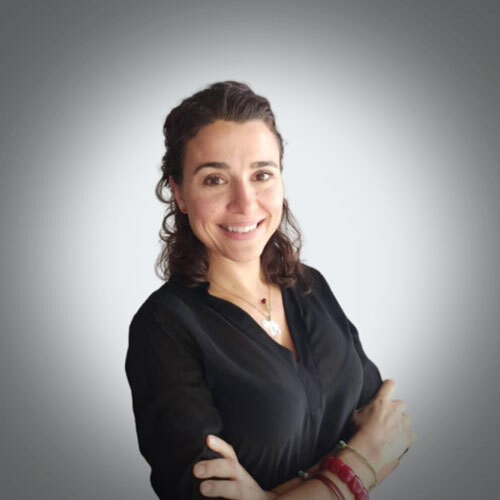
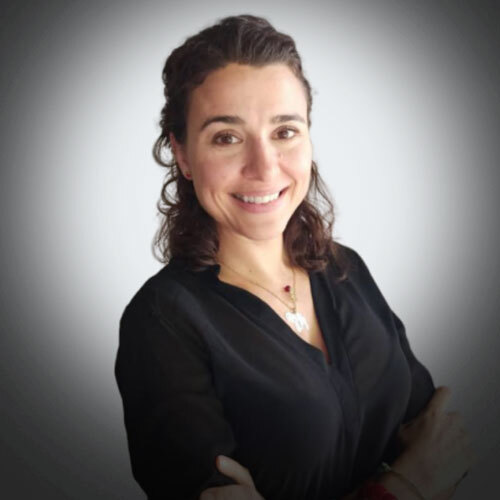
2 fotos cambiadas

diff --git a/2/index.html b/2/index.html
@@ -545,7 +545,7 @@
                 </div>
                 <div class="item">
                     <div class="iq-team grey-bg">
-                        <div class="iq-team-img"> <img src="images/lino-garcia.png" class="img-fluid center-block" alt="#"> </div>
+                        <div class="iq-team-img"> <img src="images/lino-garcia.jpg" class="img-fluid center-block" alt="#"> </div>
                         <div class="iq-team-info text-center">
                             <h5 class="iq-font-black iq-tw-6">Lino García</h5> <span class="team-post iq-tw-5">Coach</span> </div>
                     </div>

diff --git a/3/index.html b/3/index.html
@@ -545,7 +545,7 @@
                 </div>
                 <div class="item">
                     <div class="iq-team grey-bg">
-                        <div class="iq-team-img"> <img src="images/lino-garcia.png" class="img-fluid center-block" alt="#"> </div>
+                        <div class="iq-team-img"> <img src="images/lino-garcia.jpg" class="img-fluid center-block" alt="#"> </div>
                         <div class="iq-team-info text-center">
                             <h5 class="iq-font-black iq-tw-6">Lino García</h5> <span class="team-post iq-tw-5">Coach</span> </div>
                     </div>

diff --git a/index.html b/index.html
@@ -545,7 +545,7 @@
                 </div>
                 <div class="item">
                     <div class="iq-team grey-bg">
-                        <div class="iq-team-img"> <img src="images/lino-garcia.png" class="img-fluid center-block" alt="#"> </div>
+                        <div class="iq-team-img"> <img src="images/lino-garcia.jpg" class="img-fluid center-block" alt="#"> </div>
                         <div class="iq-team-info text-center">
                             <h5 class="iq-font-black iq-tw-6">Lino García</h5> <span class="team-post iq-tw-5">Coach</span> </div>
                     </div>
